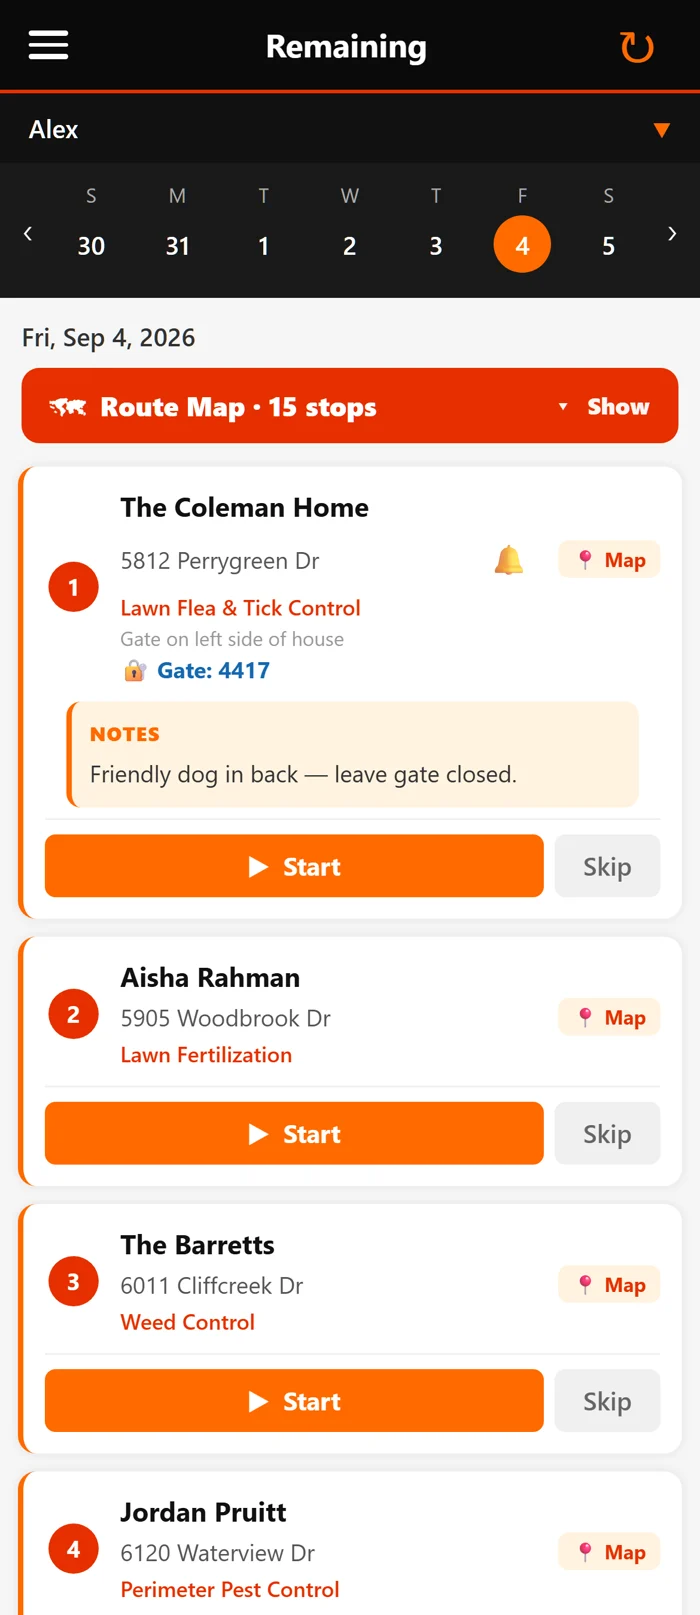
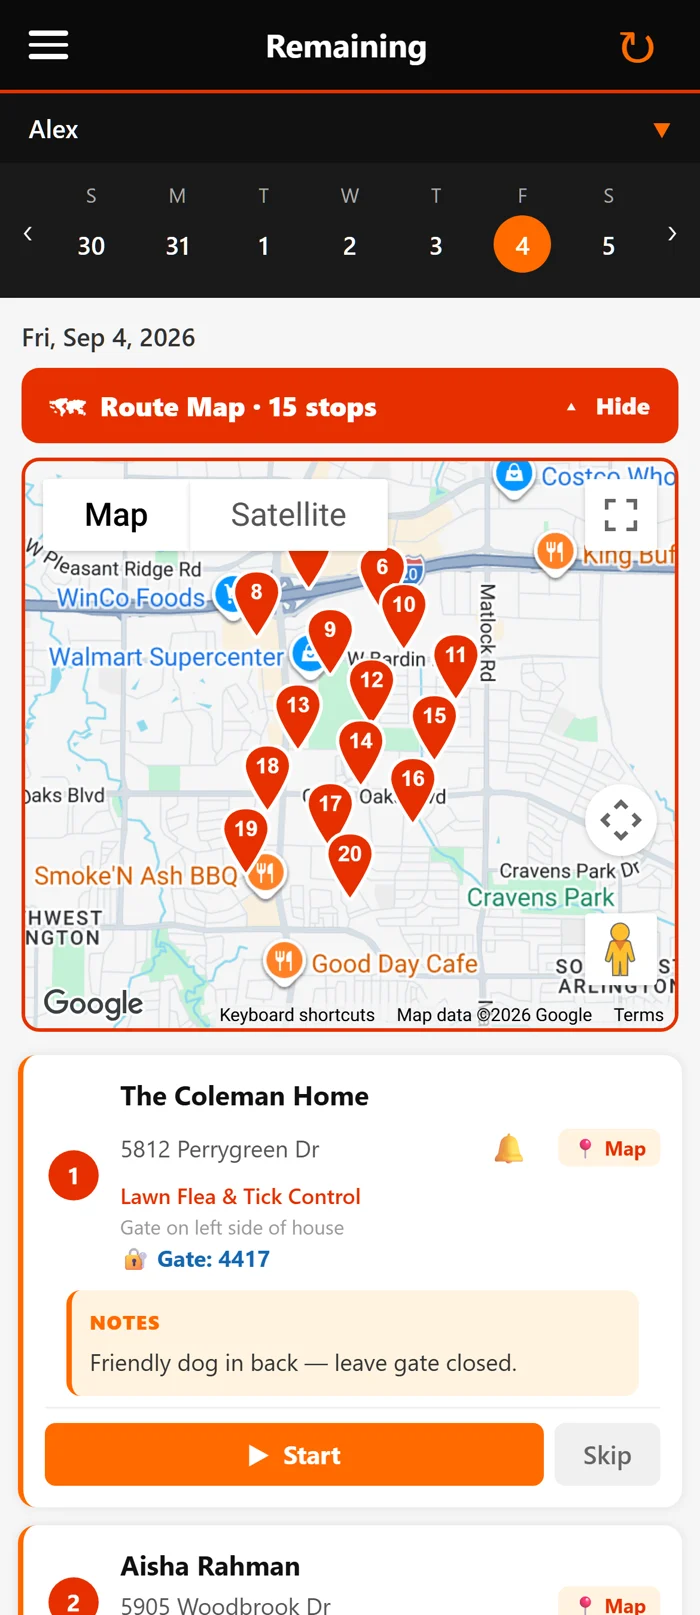
Crew app screenshot: stop closing the map before taking the picture
The route map panel is open by default - the bar reads Hide on load - so the tap that was
meant to open it was closing it, and the crew phone shipped as the one screenshot on the page
with no map. Shot without touching the bar: route map with the numbered stops, then the first
stop card with its gate code, notes and Start button.

Changed region(s): [[0.0, 0.2477, 0.99, 1.0], [0.81, 0.6811, 0.93, 0.743]]

diff --git a/app/page.tsx b/app/page.tsx
@@ -373,7 +373,7 @@ export default function Home() {
           {/* The client app and the crew app, side by side - the two screens this section is about. */}
           <div style={{display:'flex', gap:'26px', justifyContent:'center', flexWrap:'wrap', margin:'34px 0 8px'}}>
             <img src="/shot-clientapp.webp" alt="The customer's own app showing today's route and how many stops away the crew is" style={{width:'270px', maxWidth:'42vw', display:'block', borderRadius:'14px', border:'1px solid rgba(255,255,255,.14)'}} />
-            <img src="/shot-crewapp.webp" alt="The crew app showing the route map and the day's stops in order" style={{width:'270px', maxWidth:'42vw', display:'block', borderRadius:'14px', border:'1px solid rgba(255,255,255,.14)'}} />
+            <img src="/shot-crewapp.webp" alt="The crew app: the day's route on the map, then the first stop with its gate code, notes and Start button" style={{width:'270px', maxWidth:'42vw', display:'block', borderRadius:'14px', border:'1px solid rgba(255,255,255,.14)'}} />
           </div>
           <p className="section-sub">Most software this powerful stops at you and your crew. SprayBossPro gives your customers their own branded app they install right on their phone — no app store, no password, just a secure text-link login. It&apos;s the kind of thing platforms charging 5× more don&apos;t even offer.</p>
         </div>
